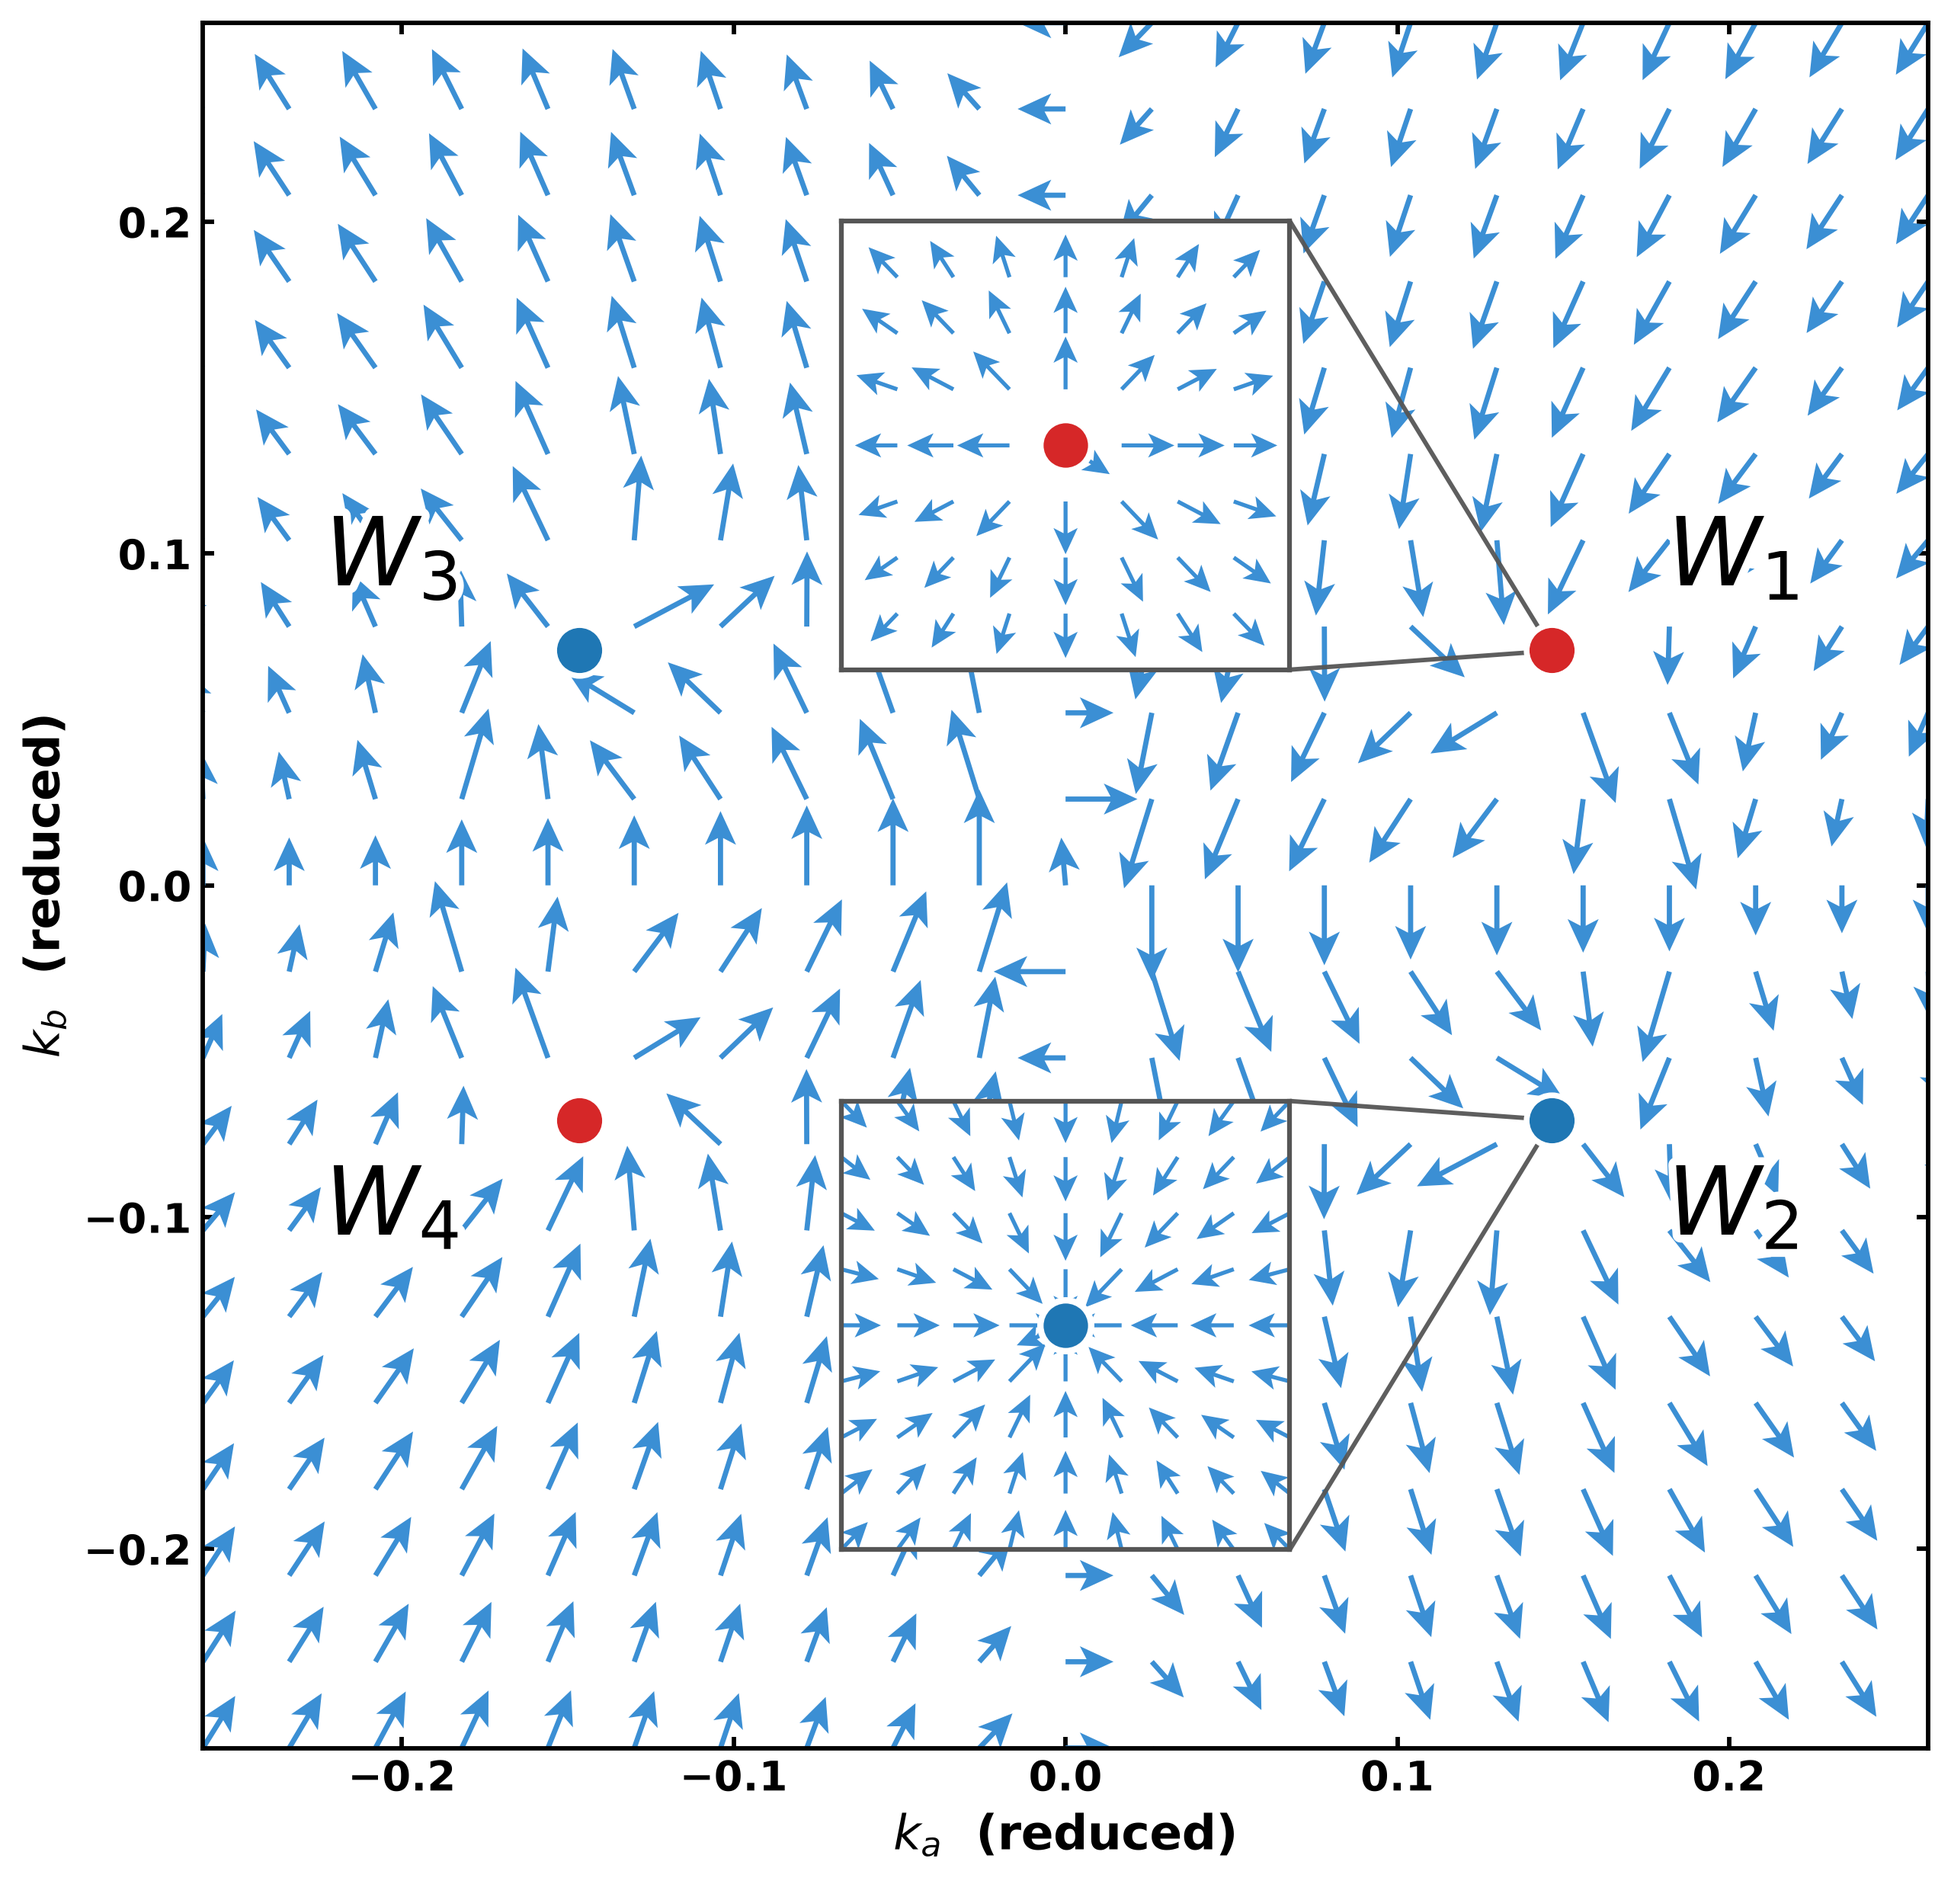
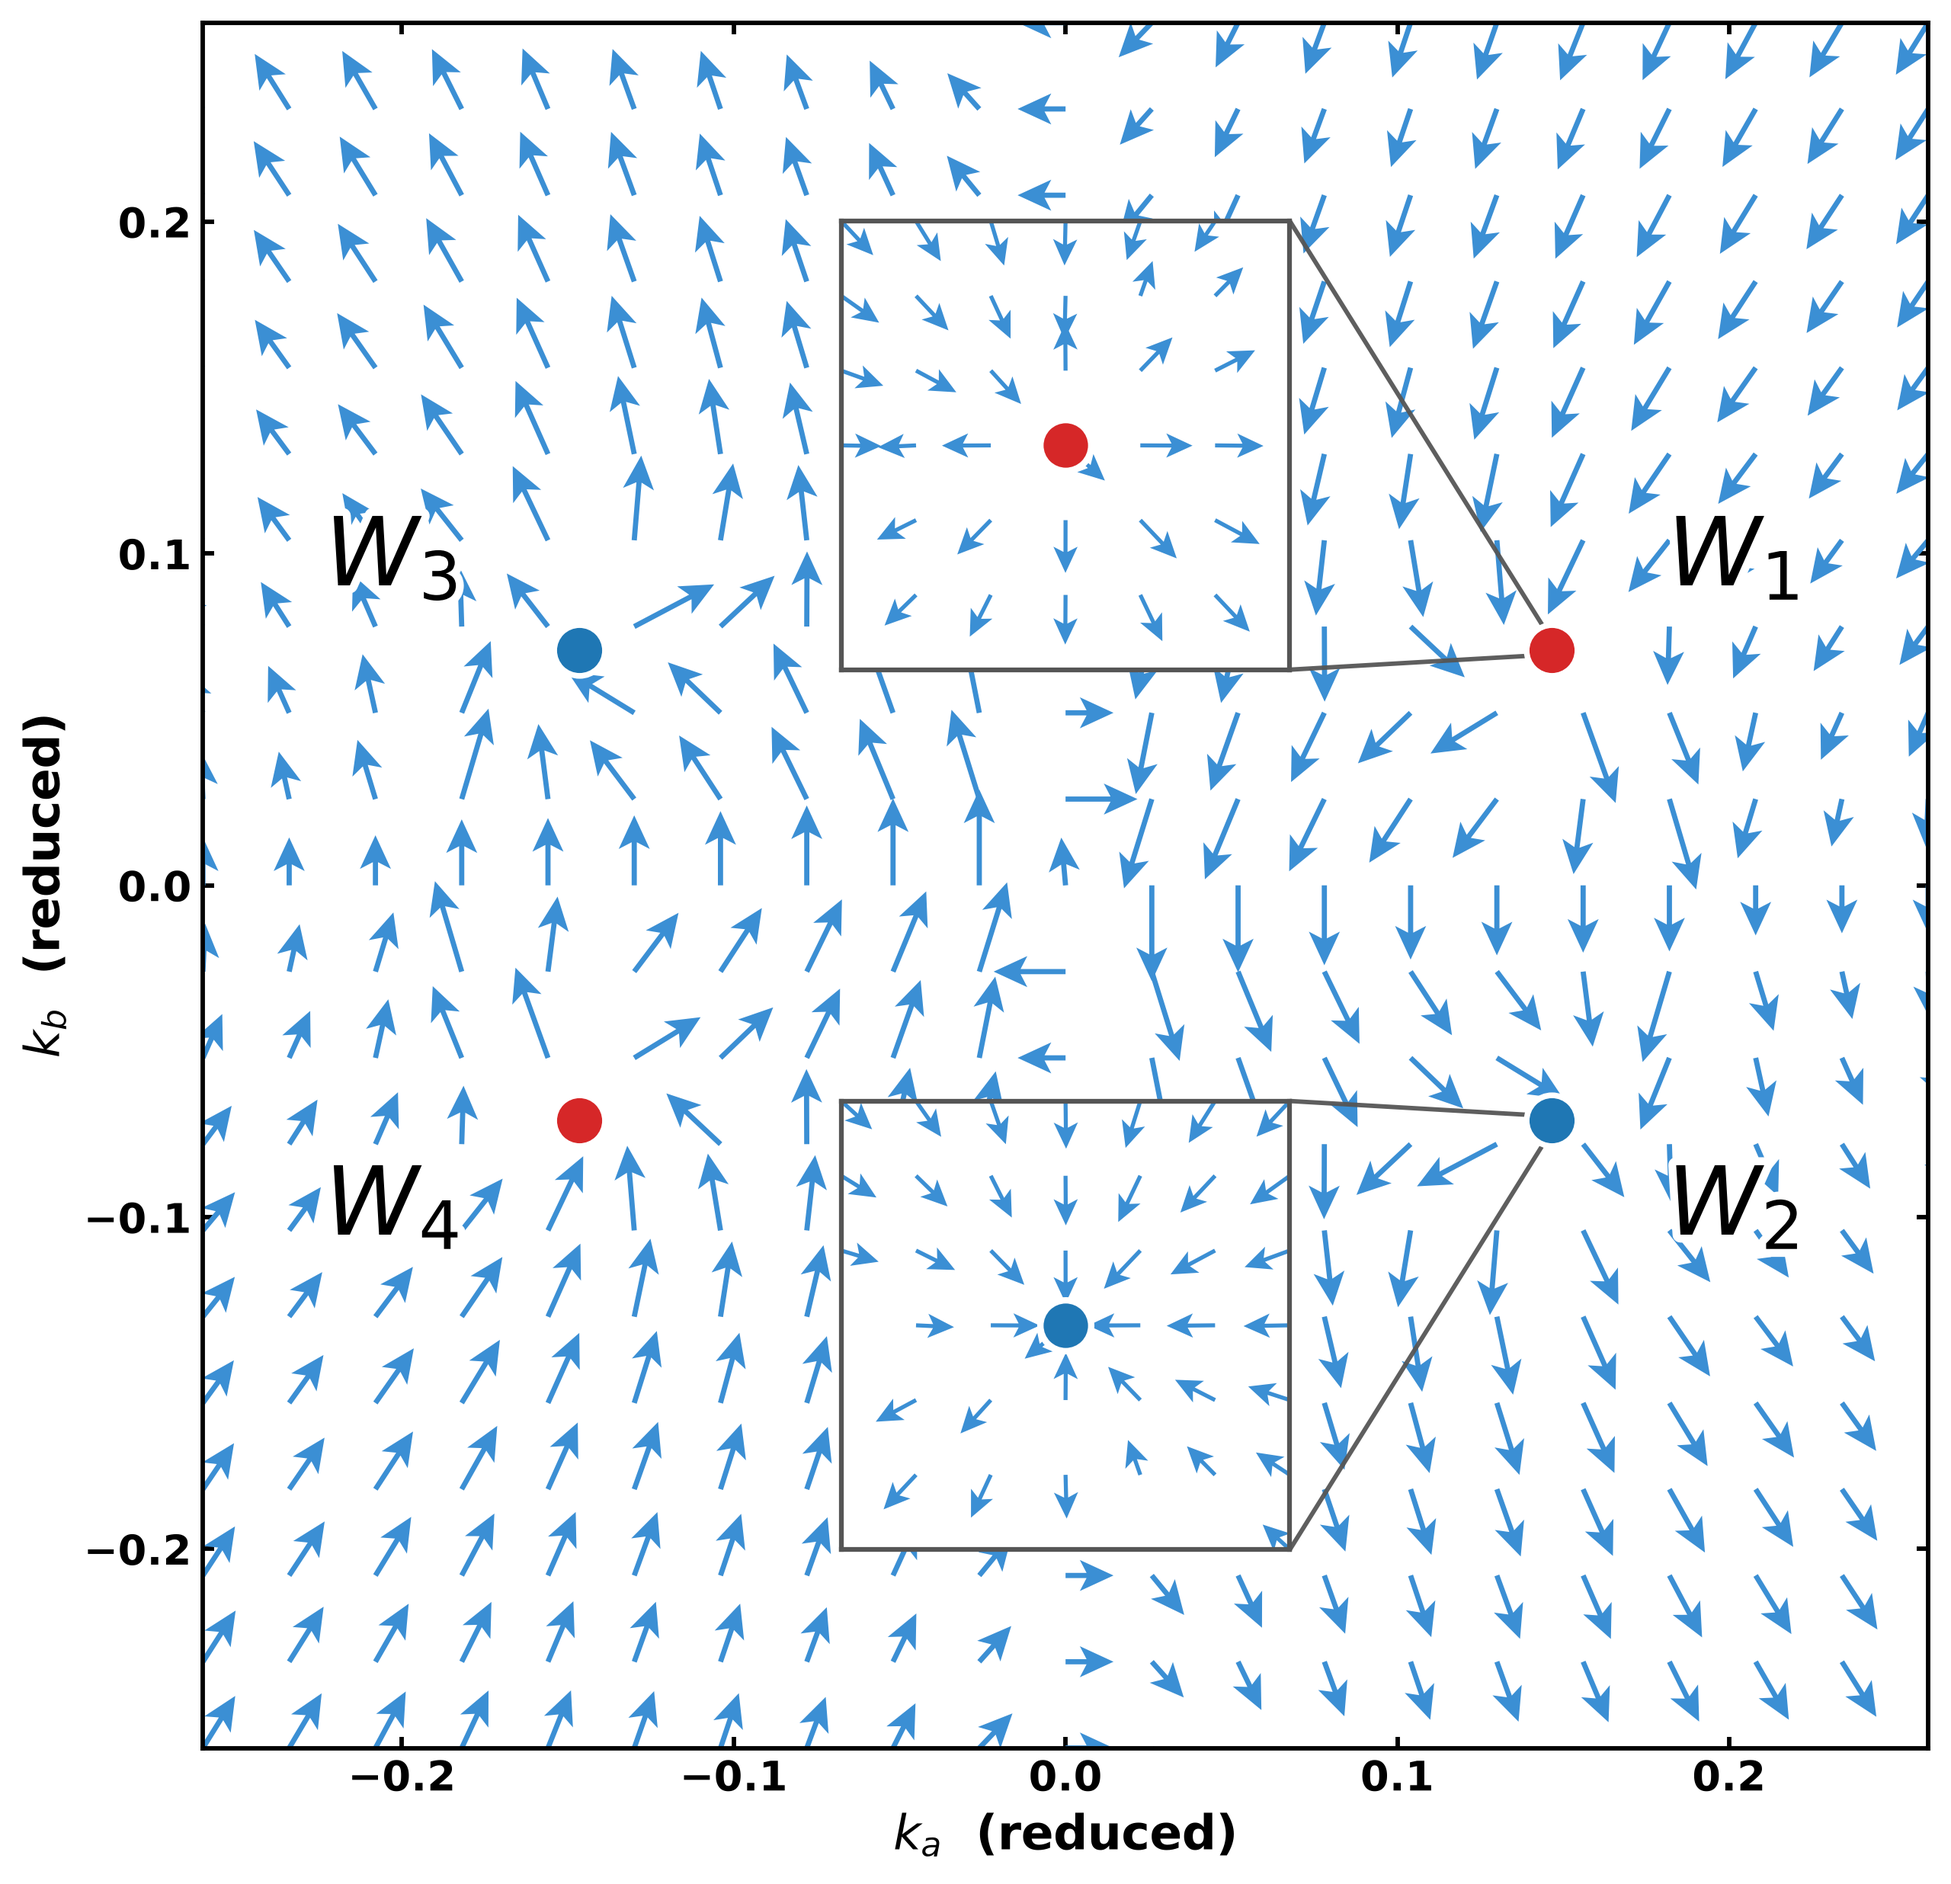
fig9: 인셋 반경 확대(뒤집힘 구간 포함) + 더 성기게
- 인셋 반경 0.00015 -> 0.0012, 격자 9x9 -> 7x7 (81 -> 48 화살표).
  순수 monopole 영역만 보여주면 '왜 밖에서는 안 그러냐' 는 오해를 주므로
  배경이 이기기 시작하는 구간까지 한 그림에 넣는다.
- 측정된 방사 일치 비율 (두 노드 동일):
    코어      r <= 0.0005   n= 4   1.00
    전이      0.0005~0.0009 n=16   0.75
    배경우세  0.0009~0.0020 n=28   0.64
  중심 4점은 완전한 monopole, 밖으로 갈수록 배경이 이겨 부호가 섞인다.

Claude-Session: https://claude.ai/code/session_01QhAUpBYpemnn6yKhi2Mgwn

diff --git a/scripts/figs/fig9_berry_field.py b/scripts/figs/fig9_berry_field.py
@@ -111,8 +111,11 @@ NANG = 8
 
 CACHE = 'figs/berry_plane_sq.npz'
 KMAX = 0.26                                   # 정사각 창
-LOCAL = 'figs/berry_local_sq.npz'
-INS_R = 0.00015                               # 인셋 반경 (reduced)
+LOCAL = 'figs/berry_local_wide.npz'
+# 인셋 반경.  monopole 이 순수한 영역(r<=0.0004)만 보여주면 "왜 밖에서는 안
+# 그러냐" 는 오해를 준다.  화살표가 뒤집히기 시작하는 구간(r~0.001 에서 배경과
+# 크기가 같아진다)까지 포함시킨다.
+INS_R = 0.0012
 
 
 def field(src, n=21, h=3e-4):
@@ -129,7 +132,7 @@ def field(src, n=21, h=3e-4):
     return ka, kb, Oa, Ob
 
 
-def local_field(src, nodes, r=INS_R, n=9, h=1.2e-5):
+def local_field(src, nodes, r=INS_R, n=7, h=8e-5):
     """인셋용 — 노드 주변 조밀 격자.  r <= 0.0004 라야 순수 monopole 이다."""
     if os.path.exists(LOCAL):
         z = np.load(LOCAL)
